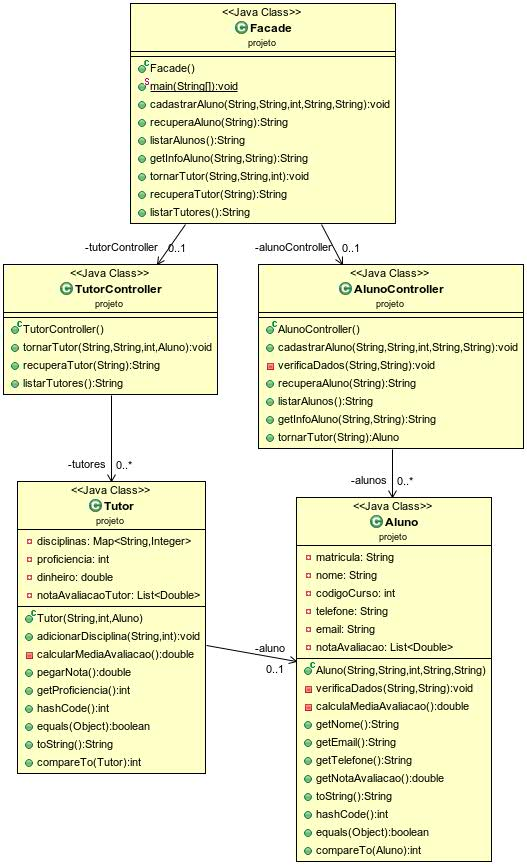
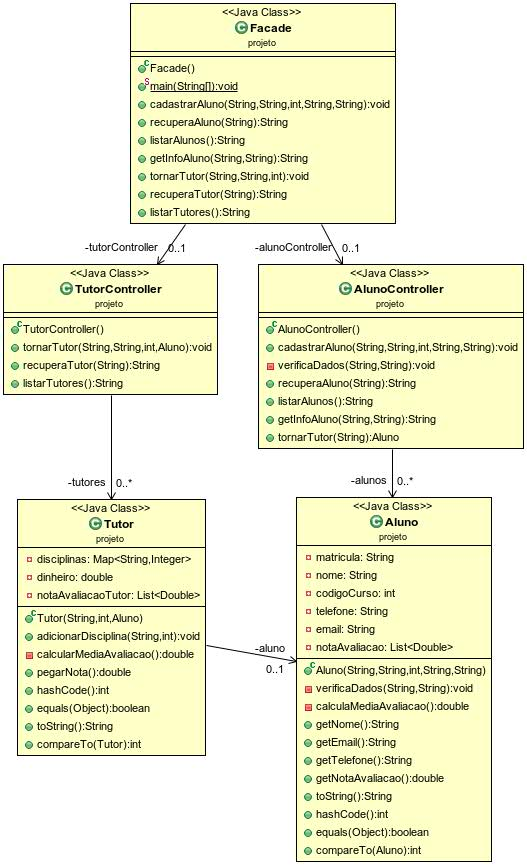
Remoção de atributos desnecessários de Tutor e início da documentação

Changed region(s): [[0.0304, 0.5306, 0.3947, 0.6555], [0.0304, 0.7803, 0.3947, 0.9052]]

diff --git a/src/projeto/Tutor.java b/src/projeto/Tutor.java
@@ -6,23 +6,44 @@ import java.util.List;
 import java.util.Map;
 
 public class Tutor implements Comparable<Tutor>{
-
+	/**
+	 * Objeto Aluno ao qual o Tutor se refere.
+	 */
 	private Aluno aluno;
+	/**
+	 * Mapa de Disciplinas do Tutor, onde a chave é o nome da disciplina e 
+	 * o valor é a proficiência do tutor na dada disciplina.
+	 */
 	private Map<String, Integer> disciplinas;
-	private int proficiencia;
+	/**
+	 * Dinheiro recebido pelo Tutor.
+	 */
 	private double dinheiro;
+	/**
+	 * Lista de notas de avaliação do Tutor.
+	 */
 	private List<Double> notaAvaliacaoTutor;
 	
+	/**
+	 * Construtor de Tutor, inicializa os argumentos da classe.
+	 * @param disciplina nome da primeira disciplina do Tutor
+	 * @param proficiencia proficiência da primeira disciplina
+	 * @param aluno referência ao objeto aluno que se tornou Tutor
+	 */
 	public Tutor(String disciplina, int proficiencia, Aluno aluno) {
 		this.disciplinas = new HashMap<String, Integer>();
 		this.disciplinas.put(disciplina, proficiencia);
-		this.proficiencia = proficiencia;
 		this.aluno = aluno;
 		this.dinheiro = 0;
 		this.notaAvaliacaoTutor = new ArrayList<Double>();
 		this.notaAvaliacaoTutor.add(4.0);
 	}
 	
+	/**
+	 * Método que adiciona mais uma disciplina de tutoria ao Tutor.
+	 * @param disciplina nome da disciplina
+	 * @param proficiencia valor de proficiência do Tutor
+	 */
 	public void adicionarDisciplina(String disciplina, int proficiencia) {
 		if (this.disciplinas.containsKey(disciplina)) {
 			throw new IllegalArgumentException("Erro na definicao de papel: Ja eh tutor dessa disciplina");
@@ -44,10 +65,6 @@ public class Tutor implements Comparable<Tutor>{
 	
 	public double pegarNota() {
 		return this.calcularMediaAvaliacao();
-	}
-
-	public int getProficiencia() {
-		return proficiencia;
 	}
 
 	@Override

diff --git a/src/projeto/Facade.java b/src/projeto/Facade.java
@@ -11,20 +11,32 @@ import easyaccept.EasyAccept;
  *
  */
 public class Facade {
-
+	/**
+	 * Controller de Alunos.
+	 */
 	private AlunoController alunoController;
+	/**
+	 * Controller de Tutores.
+	 */
 	private TutorController tutorController;
 	
+	/**
+	 * Construtor da Classe Facade que inicializa os controllers.
+	 */
 	public Facade() {
 		this.alunoController = new AlunoController();
 		this.tutorController = new TutorController();
 	}
 	
+	/**
+	 * Método main para execução dos testes do EasyAccept.
+	 * @param args array de argumentos
+	 */
 	public static void main(String[] args) {
 		args = new String[] { "projeto.Facade", "acceptance_test/us1_test.txt", "acceptance_test/us2_test.txt"};
 		EasyAccept.main(args);
 	}
-
+	
 	public void cadastrarAluno(String nome, String matricula, int codigoCurso, String telefone, String email) {
 		this.alunoController.cadastrarAluno(nome, matricula, codigoCurso, telefone, email);
 	}
